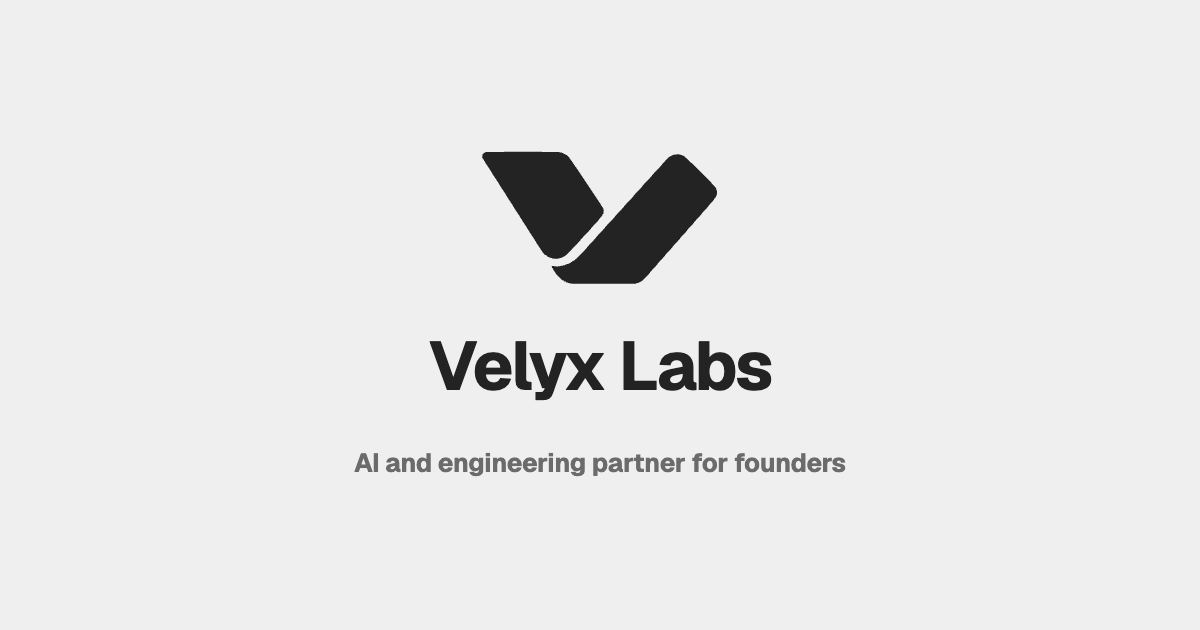
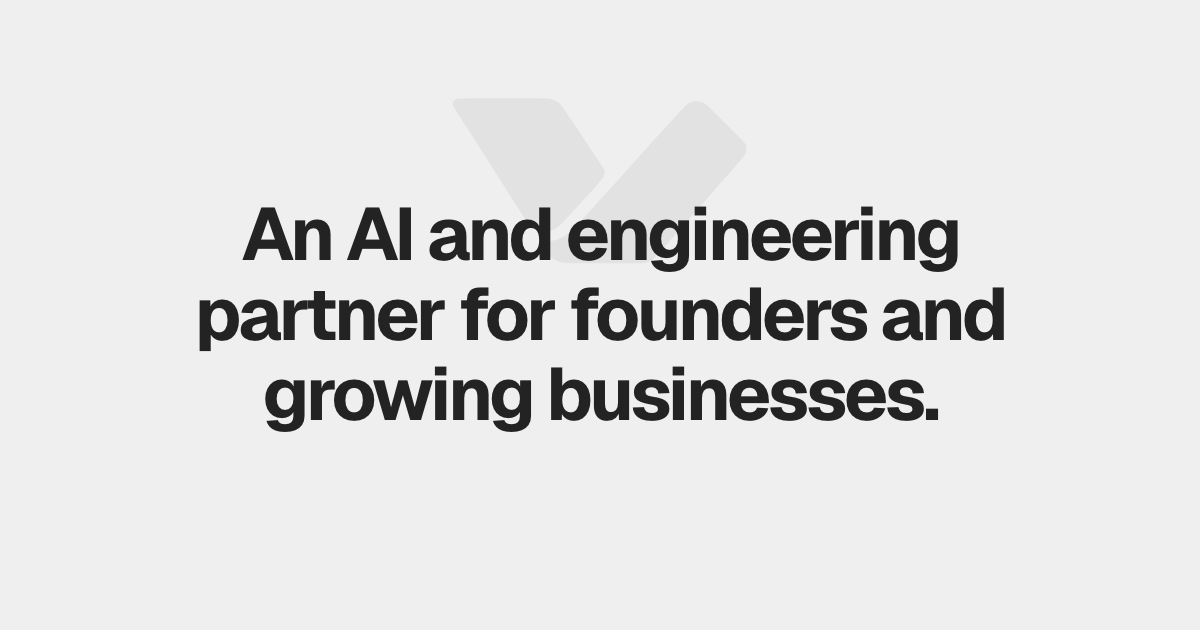
seo: new link preview and complete share tags on every page
- og.png redesigned: the tagline over a faint Velyx V (source scripts/og/og.html,
  rendered by scripts/og/render.sh); image URLs carry ?v=6 to bust preview caches
- every prerendered page now carries twitter:title/description/image and the
  og:image type, size and alt, plus og:locale
- /favicon.ico and a 48px favicon (the .ico used to fall through to the SPA)
- web manifest: current tagline, #efefef theme
- Organization JSON-LD: square logo, email, services, Mridul as Founder
- llms.txt for AI search engines; README tagline updated

Changed region(s): [[0.1542, 0.2413, 0.8633, 0.6937], [0.2775, 0.7238, 0.7092, 0.754]]

diff --git a/index.html b/index.html
@@ -6,9 +6,11 @@
   <meta name="viewport" content="width=device-width, initial-scale=1" />
 
   <!-- Favicons — the official Velyx V, black on a white circle, Google-recommended sizes (?v cache-busts) -->
-  <link rel="icon" type="image/png" sizes="32x32" href="/favicon-32.png?v=5" />
-  <link rel="icon" type="image/png" sizes="192x192" href="/favicon-192.png?v=5" />
-  <link rel="apple-touch-icon" sizes="180x180" href="/apple-touch-icon.png?v=5" />
+  <link rel="icon" href="/favicon.ico?v=6" sizes="48x48" />
+  <link rel="icon" type="image/png" sizes="32x32" href="/favicon-32.png?v=6" />
+  <link rel="icon" type="image/png" sizes="48x48" href="/favicon-48.png?v=6" />
+  <link rel="icon" type="image/png" sizes="192x192" href="/favicon-192.png?v=6" />
+  <link rel="apple-touch-icon" sizes="180x180" href="/apple-touch-icon.png?v=6" />
   <link rel="manifest" href="/site.webmanifest" />
 
   <!-- Google Search Console: replace CONTENT with your verification token -->
@@ -28,9 +30,20 @@
   <meta property="og:description"
     content="Velyx Labs designs and builds AI agents, SaaS products, WhatsApp systems, websites and apps for founders and growing businesses — end to end, founder-led." />
   <meta property="og:url" content="https://www.velyxlabs.in" />
-  <meta property="og:image" content="https://www.velyxlabs.in/og.png" />
+  <meta property="og:locale" content="en_IN" />
+  <!-- Link preview image: scripts/og/og.html, rendered by scripts/og/render.sh (?v busts preview caches) -->
+  <meta property="og:image" content="https://www.velyxlabs.in/og.png?v=6" />
+  <meta property="og:image:type" content="image/png" />
+  <meta property="og:image:width" content="1200" />
+  <meta property="og:image:height" content="630" />
+  <meta property="og:image:alt" content="Velyx Labs: an AI and engineering partner for founders and growing businesses." />
   <meta name="twitter:card" content="summary_large_image" />
   <meta name="twitter:site" content="@VelyxLabs" />
+  <meta name="twitter:title" content="Velyx Labs — AI and engineering partner for founders" />
+  <meta name="twitter:description"
+    content="Velyx Labs designs and builds AI agents, SaaS products, WhatsApp systems, websites and apps for founders and growing businesses — end to end, founder-led." />
+  <meta name="twitter:image" content="https://www.velyxlabs.in/og.png?v=6" />
+  <meta name="twitter:image:alt" content="Velyx Labs: an AI and engineering partner for founders and growing businesses." />
 
   <link rel="preconnect" href="https://fonts.googleapis.com" />
   <link rel="preconnect" href="https://fonts.gstatic.com" crossorigin />

diff --git a/scripts/og/og.html b/scripts/og/og.html
@@ -1,0 +1,21 @@
+<!doctype html>
+<html>
+<head>
+<meta charset="utf-8">
+<!-- Source of public/og.png (1200 x 630), the link preview image.
+     Render: scripts/og/render.sh -->
+<link rel="stylesheet" href="https://fonts.googleapis.com/css2?family=Geist:wght@700&display=swap">
+<style>
+  * { margin: 0; padding: 0; box-sizing: border-box; }
+  html, body { width: 1200px; height: 630px; overflow: hidden; background: #efefef; }
+  body { position: relative; font-family: "Geist", system-ui, sans-serif; -webkit-font-smoothing: antialiased; }
+  /* The Velyx V as a faint watermark behind the headline. */
+  svg { position: absolute; left: 50%; top: 96px; width: 300px; transform: translateX(-50%); color: #e2e2e2; }
+  h1 { position: absolute; inset: 0; display: flex; align-items: center; justify-content: center; padding: 0 110px; text-align: center; font-size: 74px; line-height: 1.08; font-weight: 700; letter-spacing: -0.045em; color: #232323; }
+</style>
+</head>
+<body>
+  <svg viewBox="166 384 925 522" fill="currentColor" aria-hidden="true"><path transform="translate(0 1254) scale(0.1 -0.1)" d="M1897 8619 c-119 -28 -180 -119 -145 -214 8 -22 89 -155 179 -295 91 -140 202 -313 248 -385 46 -71 156 -245 245 -385 90 -140 253 -397 363 -570 110 -173 325 -511 478 -750 153 -239 377 -590 498 -780 299 -470 323 -505 392 -567 67 -60 188 -125 280 -148 77 -20 221 -19 299 1 33 9 95 33 136 55 127 66 182 119 599 579 102 113 287 315 411 450 372 406 508 570 535 649 20 60 19 137 -4 186 -25 56 -1248 1885 -1318 1972 -79 99 -238 182 -386 202 -97 14 -2753 13 -2810 0z M9175 8530 c-64 -13 -138 -44 -197 -84 -57 -38 -142 -126 -458 -475 -102 -113 -277 -306 -390 -430 -113 -124 -347 -383 -520 -576 -173 -192 -488 -541 -700 -775 -212 -234 -608 -672 -880 -975 -272 -302 -531 -586 -575 -630 -203 -202 -471 -336 -735 -367 -80 -9 -111 -8 -199 6 -62 11 -107 14 -112 9 -9 -9 92 -177 187 -310 144 -202 330 -326 555 -368 75 -14 222 -15 1295 -13 l1209 3 70 24 c146 49 221 105 384 291 518 589 674 767 885 1005 132 149 365 414 520 590 154 176 379 433 500 570 778 886 751 852 776 983 15 76 1 163 -37 233 -16 31 -217 238 -606 626 -489 486 -592 584 -643 611 -104 54 -224 73 -329 52z"/></svg>
+  <h1>An AI and engineering partner for founders and growing businesses.</h1>
+</body>
+</html>

diff --git a/src/pages/Home.jsx b/src/pages/Home.jsx
@@ -18,7 +18,8 @@ import { quotesFor } from "../data/testimonials";
 const JSON_LD = {
   "@context": "https://schema.org",
   "@graph": [
-    { "@type": "Organization", "@id": `${SITE.url}#org`, name: "Velyx Labs", url: SITE.url, logo: SITE.ogImage, description: SITE.defaultDescription, sameAs: ["https://x.com/VelyxLabs", "https://www.linkedin.com/company/velyx-labs/", "https://github.com/ATHARVISM2804"], founder: { "@id": `${SITE.url}#atharv` } },
+    { "@type": "Organization", "@id": `${SITE.url}#org`, name: "Velyx Labs", url: SITE.url, logo: SITE.logo, image: SITE.ogImage, description: SITE.defaultDescription, email: "velyxlabs@gmail.com", areaServed: "Worldwide", knowsAbout: ["AI agents", "AI voice agents", "SaaS and MVP development", "WhatsApp automation", "CRM automation", "Website development", "SEO", "Mobile app development"], sameAs: ["https://x.com/VelyxLabs", "https://www.linkedin.com/company/velyx-labs/", "https://github.com/ATHARVISM2804"], founder: [{ "@id": `${SITE.url}#mridul` }, { "@id": `${SITE.url}#atharv` }] },
+    { "@type": "Person", "@id": `${SITE.url}#mridul`, name: "Mridul", jobTitle: "Founder", worksFor: { "@id": `${SITE.url}#org` }, sameAs: ["https://www.linkedin.com/in/mridulrahangdale/", "https://x.com/Mridul07_"] },
     { "@type": "Person", "@id": `${SITE.url}#atharv`, name: "Atharv Golait", jobTitle: "Co-founder", worksFor: { "@id": `${SITE.url}#org` }, url: "https://atharvgolait.dev/", sameAs: ["https://atharvgolait.dev/", "https://www.linkedin.com/in/atharv-golait-9048772ab/", "https://x.com/Atharv_Golait"] },
     { "@type": "WebSite", "@id": `${SITE.url}#website`, url: SITE.url, name: "Velyx Labs", publisher: { "@id": `${SITE.url}#org` } },
   ],

diff --git a/src/components/seoConfig.js b/src/components/seoConfig.js
@@ -2,7 +2,8 @@
 export const SITE = {
   name: "Velyx Labs",
   url: "https://www.velyxlabs.in",
-  ogImage: "https://www.velyxlabs.in/og.png",
+  ogImage: "https://www.velyxlabs.in/og.png?v=6", // ?v busts link-preview caches when the image changes
+  logo: "https://www.velyxlabs.in/favicon-512.png",
   twitter: "@VelyxLabs",
   defaultTitle: "Velyx Labs — AI and engineering partner for founders",
   defaultDescription:

diff --git a/README.md b/README.md
@@ -1,6 +1,6 @@
 # Velyx Labs — Agency Website
 
-> Agentic systems & AI-native SaaS for ambitious founders.
+> An AI and engineering partner for founders and growing businesses.
 
 A clean, fast, conversion-focused agency site in a Kargul-style light design. One goal: book a free 30-minute call (Cal.com).
 
